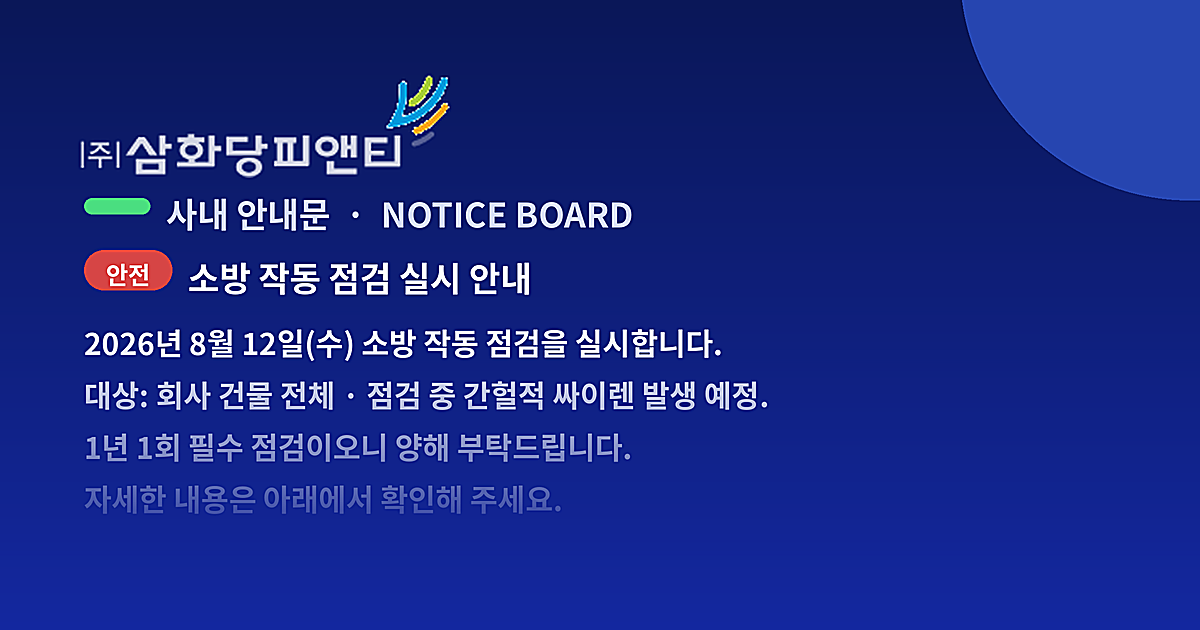
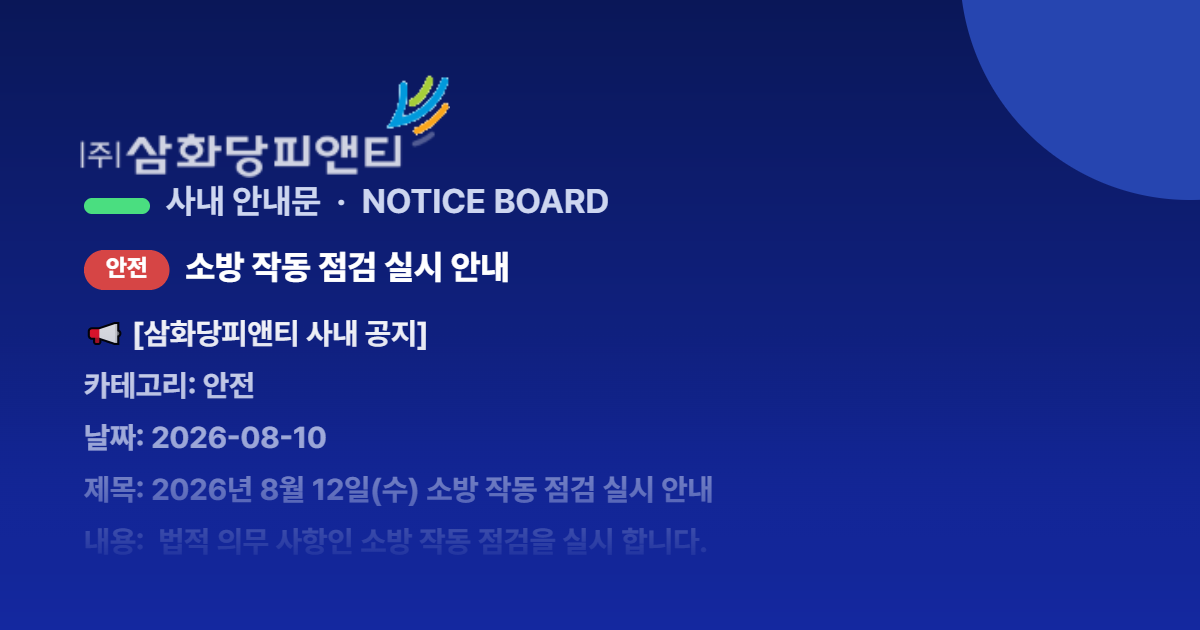
업데이트

Changed region(s): [[0.0617, 0.5127, 0.6475, 0.8746], [0.0617, 0.1206, 0.5242, 0.4825], [0.9558, 0.3016, 1.0, 0.3317]]

diff --git a/share/미리보기_만들기.html b/share/미리보기_만들기.html
@@ -1,0 +1,137 @@
+<!DOCTYPE html>
+<html lang="ko">
+<head>
+<meta charset="UTF-8" />
+<meta name="viewport" content="width=device-width, initial-scale=1.0" />
+<title>카톡 미리보기 만들기 · 삼화당피앤티</title>
+<link rel="stylesheet" href="https://cdn.jsdelivr.net/gh/orioncactus/pretendard@1.3.9/dist/web/static/pretendard.css" />
+<style>
+  :root{--nv:#1428A0;--nv2:#0F1E78;}
+  *{box-sizing:border-box;} body{margin:0;font-family:'Pretendard',sans-serif;background:#EEF0F5;color:#111;line-height:1.6;}
+  .wrap{max-width:1000px;margin:0 auto;padding:20px 16px 60px;}
+  h1{font-size:1.3rem;font-weight:900;margin:14px 0 4px;}
+  .sub{color:#5A5F6E;font-size:.9rem;margin:0 0 18px;}
+  .card{background:#fff;border:1px solid #E1E4EC;border-radius:14px;padding:18px 18px;box-shadow:0 4px 14px rgba(16,24,40,.05);margin-bottom:16px;}
+  label{display:block;font-weight:800;font-size:.9rem;margin:10px 0 6px;}
+  input[type=text],textarea{width:100%;border:1px solid #C4C9D6;border-radius:10px;padding:11px 13px;font:600 .95rem 'Pretendard',sans-serif;color:#111;}
+  textarea{min-height:120px;resize:vertical;line-height:1.7;}
+  .cats{display:flex;gap:8px;flex-wrap:wrap;}
+  .cat{cursor:pointer;border:1px solid #C4C9D6;background:#fff;border-radius:9999px;padding:8px 15px;font-weight:800;font-size:.85rem;color:#5A5F6E;}
+  .cat.on{color:#fff;border-color:transparent;}
+  .cat[data-c="안전"].on{background:#D64545;} .cat[data-c="총무"].on{background:#1B63D6;} .cat[data-c="교육"].on{background:#2E9E5B;} .cat[data-c="인사"].on{background:#8A5AD6;} .cat[data-c="일반"].on{background:#5A5F6E;}
+  .preview{width:100%;border-radius:12px;border:1px solid #E1E4EC;display:block;box-shadow:0 6px 20px rgba(16,24,40,.12);}
+  .btn{display:inline-flex;align-items:center;gap:8px;cursor:pointer;border:0;border-radius:10px;padding:14px 20px;font:900 1rem 'Pretendard',sans-serif;color:#fff;background:linear-gradient(120deg,#0F1E78,#2645B0);box-shadow:0 4px 12px rgba(20,40,160,.25);}
+  .btn:active{transform:scale(.99);}
+  .hint{font-size:.8rem;color:#5A5F6E;background:#EAF0FF;border:1px solid #C9D8FF;border-radius:10px;padding:12px 14px;line-height:1.7;margin-top:12px;}
+  .hint b{color:#1428A0;}
+  .step{display:flex;gap:10px;margin:8px 0;} .step .n{flex:none;width:26px;height:26px;border-radius:50%;background:#1428A0;color:#fff;font-weight:900;display:grid;place-items:center;font-size:.82rem;}
+  code{background:#EEF0F5;padding:1px 6px;border-radius:5px;font-size:.85em;}
+</style>
+</head>
+<body>
+<div class="wrap">
+  <h1>🖼 카톡 미리보기 만들기</h1>
+  <p class="sub">아래 내용을 입력하면 미리보기 이미지가 실시간으로 만들어집니다. 저장해서 저장소 <code>share/og-image.png</code> 에 덮어쓰고 Push하세요.</p>
+
+  <div class="card">
+    <label>카테고리</label>
+    <div class="cats" id="cats">
+      <button class="cat on" data-c="안전">안전</button>
+      <button class="cat" data-c="총무">총무</button>
+      <button class="cat" data-c="교육">교육</button>
+      <button class="cat" data-c="인사">인사</button>
+      <button class="cat" data-c="일반">일반</button>
+    </div>
+    <label>제목</label>
+    <input type="text" id="title" value="소방 작동 점검 실시 안내" maxlength="40" />
+    <label>내용 (한 줄에 한 문장 · 아래로 갈수록 흐려집니다)</label>
+    <textarea id="body">2026년 8월 12일(수) 소방 작동 점검을 실시합니다.
+대상: 회사 건물 전체 · 점검 중 간헐적 싸이렌 발생 예정.
+1년 1회 필수 점검이오니 양해 부탁드립니다.
+자세한 내용은 아래에서 확인해 주세요.</textarea>
+  </div>
+
+  <div class="card">
+    <label>미리보기</label>
+    <canvas id="cv" width="1200" height="630" class="preview"></canvas>
+    <div style="margin-top:14px;display:flex;gap:10px;flex-wrap:wrap;align-items:center">
+      <button class="btn" id="save">⬇ og-image.png 저장</button>
+      <span style="font-size:.85rem;color:#5A5F6E">저장 후 저장소 <b>share</b> 폴더의 og-image.png 를 이 파일로 교체하고 Push</span>
+    </div>
+    <div class="hint">
+      <div class="step"><div class="n">1</div><div>위 칸의 <b>제목·내용</b>을 수정/삭제/편집합니다.</div></div>
+      <div class="step"><div class="n">2</div><div><b>og-image.png 저장</b> 버튼 → 이미지가 다운로드됩니다.</div></div>
+      <div class="step"><div class="n">3</div><div>저장소 <code>share/og-image.png</code> 를 방금 파일로 <b>덮어쓰고 GitHub Desktop에서 Push</b>.</div></div>
+      <div class="step"><div class="n">4</div><div>카톡은 미리보기를 캐시하니, <code>developers.kakao.com/tool/clear/og</code> 에서 링크 캐시 초기화 후 붙여넣기.</div></div>
+      ※ 대시보드(사내 안내판)에는 아무 변화가 없고, 카톡에 링크를 올렸을 때 보이는 미리보기만 바뀝니다. 링크를 누르면 대시보드로 연결됩니다.
+    </div>
+  </div>
+</div>
+
+<script>
[1 lines of base64/hex data omitted]
+const CATCOL = {"안전":"#D64545","총무":"#1B63D6","교육":"#2E9E5B","인사":"#8A5AD6","일반":"#5A5F6E"};
+let cat="안전";
+const cv=document.getElementById('cv'), ctx=cv.getContext('2d');
+const W=1200,H=630;
+const logo=new Image(); let logoReady=false;
+logo.onload=()=>{logoReady=true; draw();};
+logo.src=LOGO_SRC;
+
+function lerp(a,b,t){return Math.round(a+(b-a)*t);}
+function bgcol(y){const t=y/H; return [lerp(10,20,t),lerp(23,40,t),lerp(88,160,t)];}
+function rr(x,y,w,h,r){ctx.beginPath();ctx.moveTo(x+r,y);ctx.arcTo(x+w,y,x+w,y+h,r);ctx.arcTo(x+w,y+h,x,y+h,r);ctx.arcTo(x,y+h,x,y,r);ctx.arcTo(x,y,x+w,y,r);ctx.closePath();}
+
+function draw(){
+  // bg gradient
+  for(let y=0;y<H;y++){const c=bgcol(y);ctx.fillStyle='rgb('+c[0]+','+c[1]+','+c[2]+')';ctx.fillRect(0,y,W,1);}
+  // accent circle
+  ctx.fillStyle='rgb(38,69,176)';ctx.beginPath();ctx.arc(W-10,-30,230,0,Math.PI*2);ctx.fill();
+  // logo
+  if(logoReady){const lh=104,lw=logo.width*lh/logo.height;ctx.drawImage(logo,80,74,lw,lh);}
+  ctx.textBaseline='top';
+  // accent bar + brand
+  ctx.fillStyle='#4ADE80';rr(84,198,66,16,8);ctx.fill();
+  ctx.fillStyle='rgb(205,214,240)';ctx.font='700 34px Pretendard, "Malgun Gothic", sans-serif';
+  ctx.fillText('사내 안내문  ·  NOTICE BOARD',166,186);
+  // chip + title
+  ctx.font='800 24px Pretendard, "Malgun Gothic", sans-serif';
+  const cw=ctx.measureText(cat).width+44;
+  ctx.fillStyle=CATCOL[cat];rr(84,250,cw,40,20);ctx.fill();
+  ctx.fillStyle='#fff';ctx.fillText(cat,84+22,257);
+  ctx.font='800 34px Pretendard, "Malgun Gothic", sans-serif';
+  ctx.fillText(document.getElementById('title').value,84+cw+16,252);
+  // body
+  const shades=['#FFFFFF','rgb(235,240,252)','rgb(225,232,248)','rgb(210,218,240)','rgb(196,206,232)'];
+  const lines=document.getElementById('body').value.split('\n').filter(l=>l.trim()!=='').slice(0,5);
+  ctx.font='700 30px Pretendard, "Malgun Gothic", sans-serif';
+  let y=320;
+  lines.forEach((ln,i)=>{ctx.fillStyle=shades[Math.min(i,4)];ctx.fillText(ln,84,y);y+=52;});
+  // fade overlay (아래로 갈수록 흐려짐)
+  const y0=300,y1=566; const cTop=bgcol(y0),cBot=bgcol(y1);
+  const g=ctx.createLinearGradient(0,y0,0,y1);
+  g.addColorStop(0,'rgba('+cTop[0]+','+cTop[1]+','+cTop[2]+',0)');
+  g.addColorStop(0.55,'rgba('+cBot[0]+','+cBot[1]+','+cBot[2]+',0.35)');
+  g.addColorStop(1,'rgba('+cBot[0]+','+cBot[1]+','+cBot[2]+',0.97)');
+  ctx.fillStyle=g;ctx.fillRect(0,y0,W,y1-y0);
+}
+
+document.getElementById('cats').addEventListener('click',e=>{
+  const b=e.target.closest('.cat'); if(!b)return;
+  document.querySelectorAll('.cat').forEach(x=>x.classList.remove('on'));
+  b.classList.add('on'); cat=b.getAttribute('data-c'); draw();
+});
+document.getElementById('title').addEventListener('input',draw);
+document.getElementById('body').addEventListener('input',draw);
+document.getElementById('save').addEventListener('click',()=>{
+  cv.toBlob(function(blob){
+    const a=document.createElement('a');a.href=URL.createObjectURL(blob);a.download='og-image.png';a.click();
+    setTimeout(()=>URL.revokeObjectURL(a.href),2000);
+  },'image/png');
+});
+// draw when fonts ready
+if(document.fonts&&document.fonts.ready){document.fonts.ready.then(draw);}
+setTimeout(draw,400); draw();
+</script>
+</body>
+</html>
